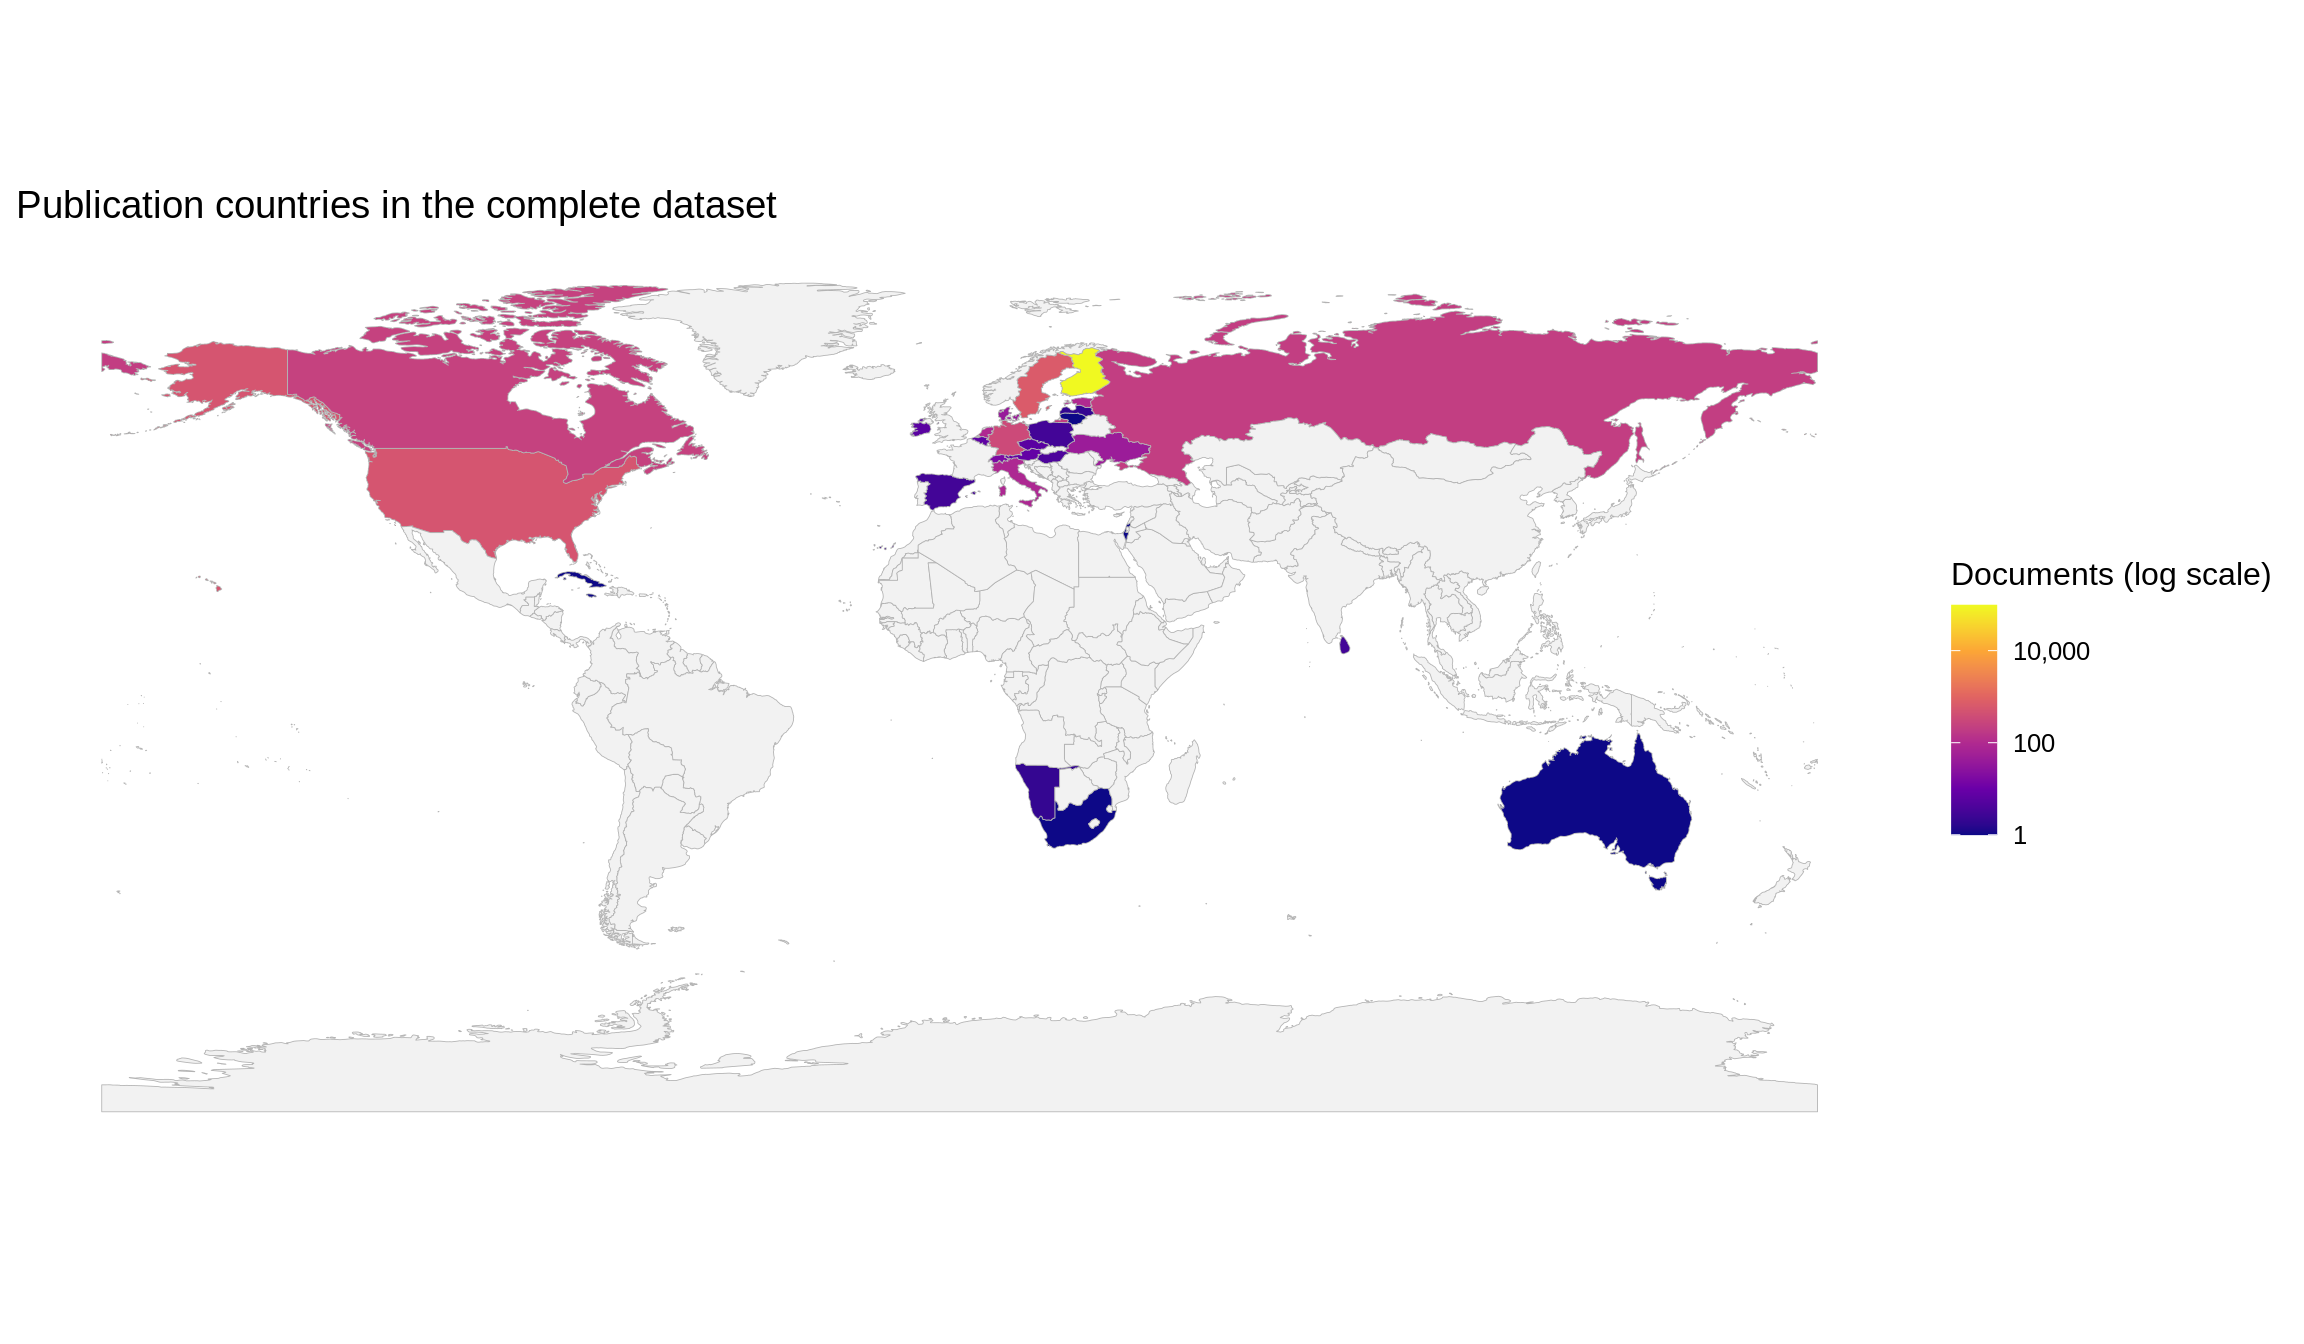
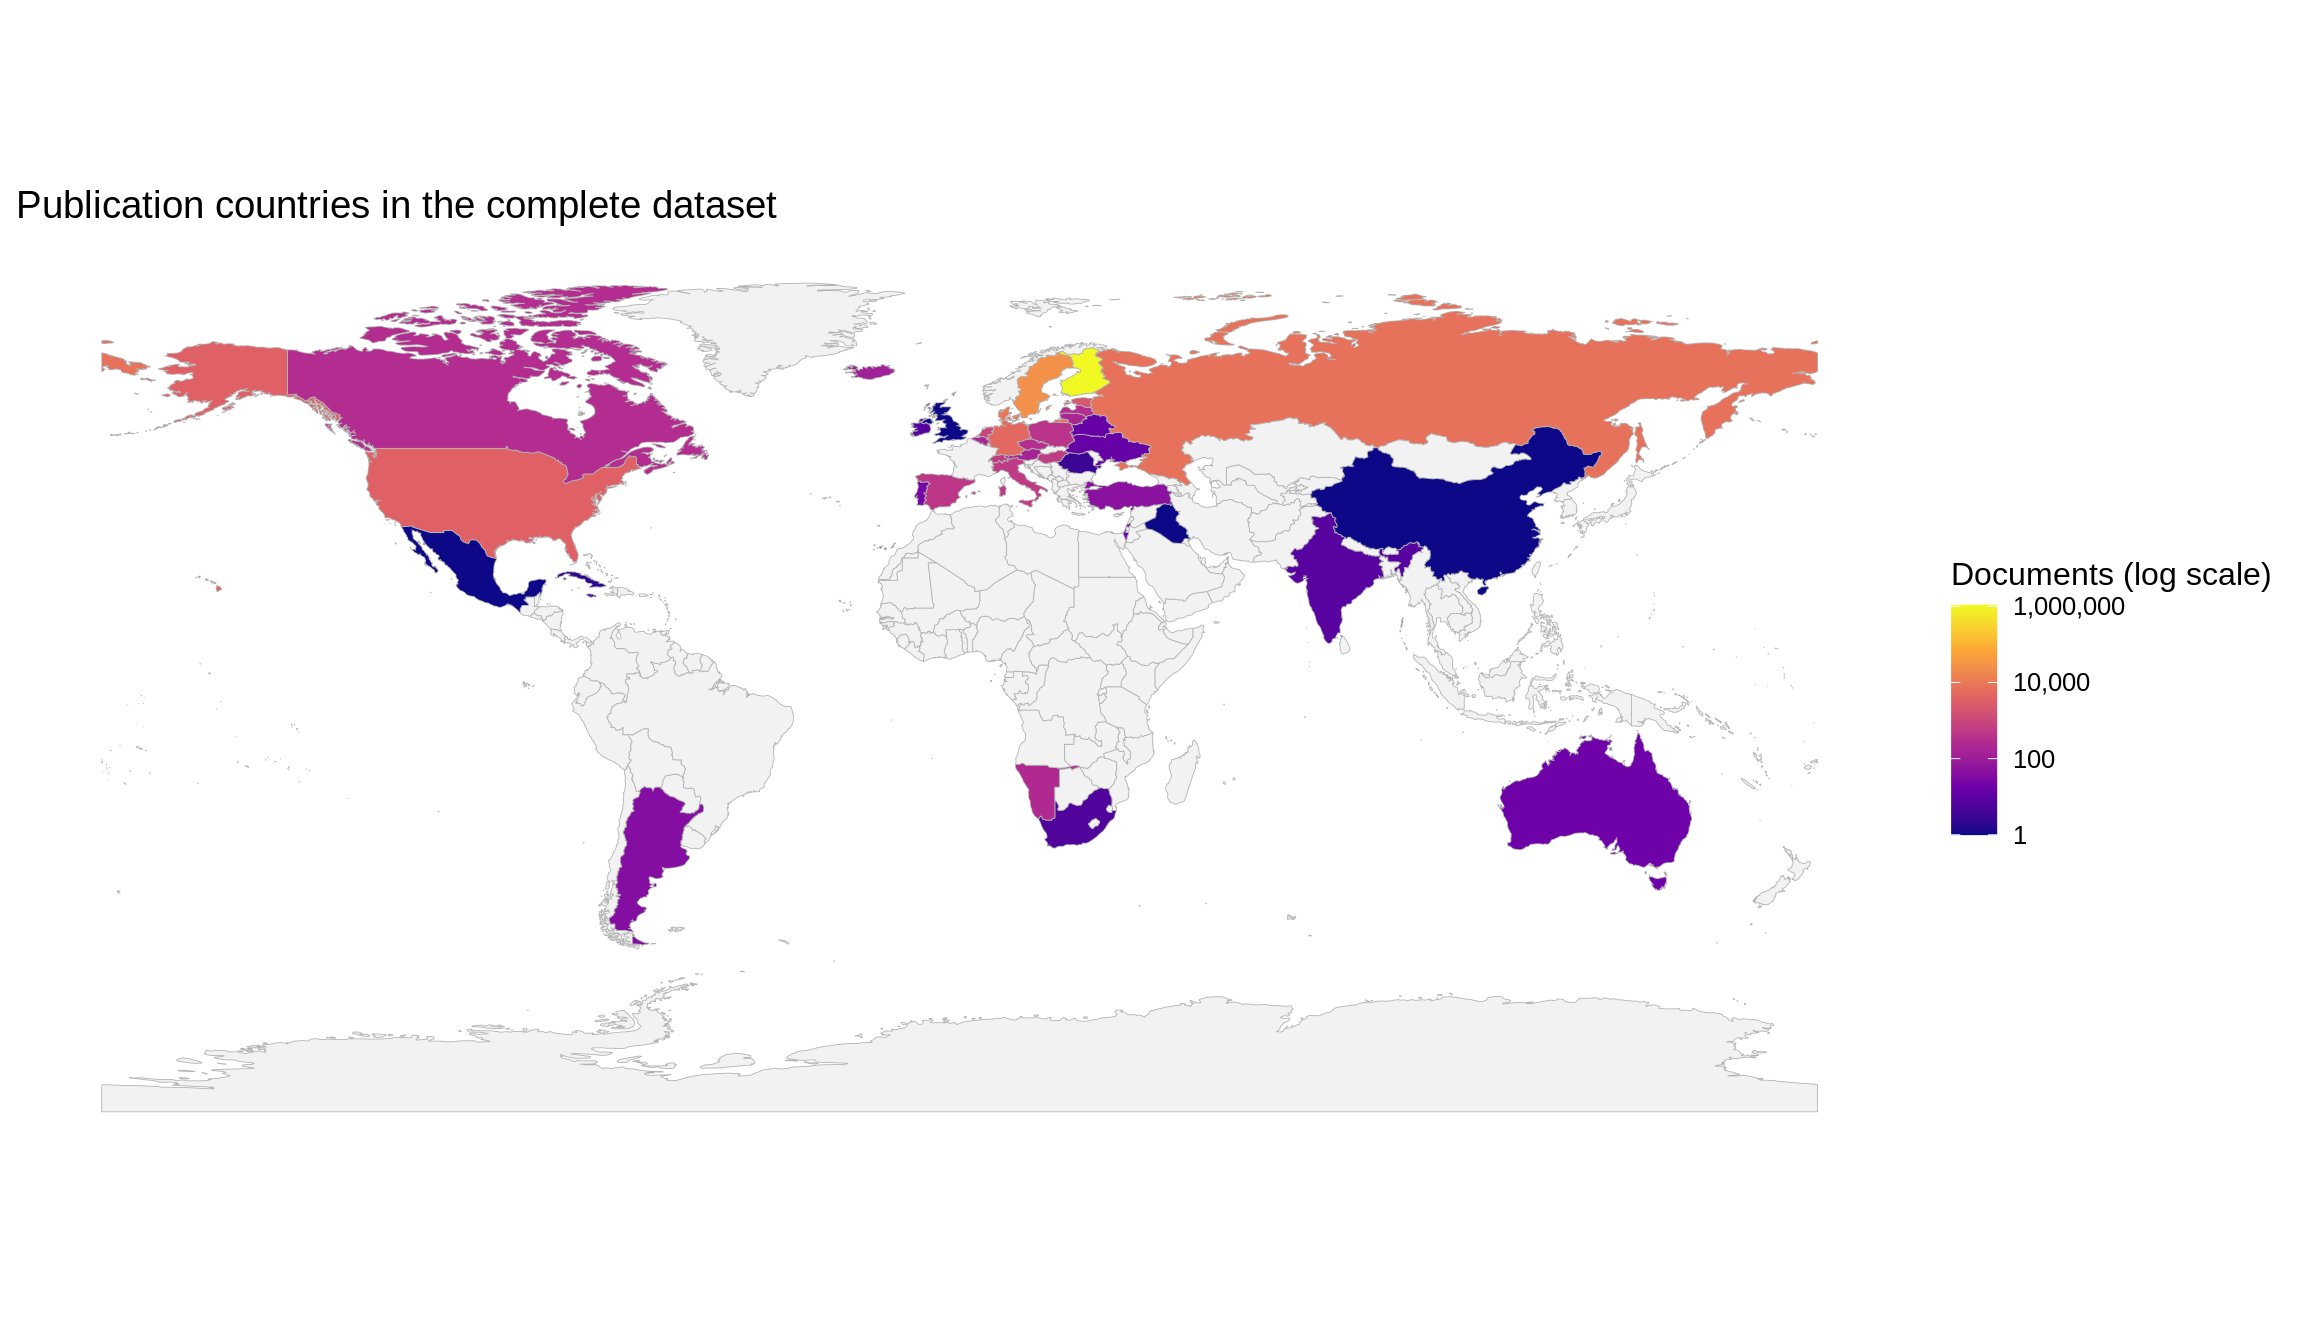
pub place upd

diff --git a/inst/examples/_book/publication_place.html b/inst/examples/_book/publication_place.html
@@ -200,20 +200,14 @@ ul.task-list li input[type="checkbox"] {
 </li>
         <li class="sidebar-item">
   <div class="sidebar-item-container"> 
-  <a href="./title_uniform.html" class="sidebar-item-text sidebar-link">
- <span class="menu-text"><span class="chapter-number">15</span>&nbsp; <span class="chapter-title">Uniform Titles and Variants</span></span></a>
-  </div>
-</li>
-        <li class="sidebar-item">
-  <div class="sidebar-item-container"> 
   <a href="./udk.html" class="sidebar-item-text sidebar-link">
- <span class="menu-text"><span class="chapter-number">16</span>&nbsp; <span class="chapter-title">Universal Decimal Classification</span></span></a>
+ <span class="menu-text"><span class="chapter-number">15</span>&nbsp; <span class="chapter-title">Universal Decimal Classification</span></span></a>
   </div>
 </li>
         <li class="sidebar-item">
   <div class="sidebar-item-container"> 
   <a href="./content_type.html" class="sidebar-item-text sidebar-link">
- <span class="menu-text"><span class="chapter-number">17</span>&nbsp; <span class="chapter-title">Types of record</span></span></a>
+ <span class="menu-text"><span class="chapter-number">16</span>&nbsp; <span class="chapter-title">Types of record</span></span></a>
   </div>
 </li>
         <li class="sidebar-item sidebar-item-section">
@@ -280,11 +274,11 @@ ul.task-list li input[type="checkbox"] {
 
 <p>MARC: <a href="https://www.loc.gov/marc/bibliographic/bd260.html">260a</a> and <a href="https://www.loc.gov/marc/bibliographic/bd264.html">264a</a></p>
 <p>Publication place information is primarily derived from MARC21 fields 260a and 264a, which record the location of publication. These fields exhibit substantial variation in spelling, language, and formatting, requiring systematic harmonization to enable consistent geographic analysis. The processing pipeline integrates normalization, synonym resolution, and external mappings to standardize place names and link them to countries and geocoordinates, while preserving traceability of ambiguous and discarded cases.</p>
-<p>The publication place field is enriched by using 264a when 260a is missing, after which the raw place strings are harmonized with polish_place(). The harmonized place names are then linked to countries with get_country() and joined with existing geocoding data to add longitude, latitude, and mapping identifiers. The workflow saves the processed table, creates accepted and discarded summaries, records discarded non-empty original values with IDs, and produces separate accepted summaries for the 1809–1917 subset. There are 1207088 records with missing author name information in the original raw data.</p>
+<p>The publication place field is enriched by using 264a when 260a is missing, after which the raw place strings are harmonized with polish_place(). The harmonized place names are then linked to countries with get_country() and joined with existing geocoding data to add longitude, latitude, and mapping identifiers. The workflow saves the processed table, creates accepted and discarded summaries, records discarded non-empty original values with IDs, and produces separate accepted summaries for the 1809–1917 subset. There are 360896 records with missing author name information in the original raw data.</p>
 <section id="complete-dataset-overview" class="level2" data-number="9.1">
 <h2 data-number="9.1" class="anchored" data-anchor-id="complete-dataset-overview"><span class="header-section-number">9.1</span> Complete Dataset Overview</h2>
 <ul>
-<li><p>114200 <a href="dataTable/data_table.html?path=https://a3s.fi/swift/v1/AUTH_3c0ccb602fa24298a6fe3ae224ca022f/fennica-container/output.tables/publication_place_accepted.csv">unique publication places</a>; available for 851136 documents (65%).</p></li>
+<li><p>5769 <a href="dataTable/data_table.html?path=https://a3s.fi/swift/v1/AUTH_3c0ccb602fa24298a6fe3ae224ca022f/fennica-container/output.tables/publication_place_accepted.csv">unique publication places</a>; available for 1224290 documents (93%).</p></li>
 <li><p><a href="dataTable/data_table.html?path=https://a3s.fi/swift/v1/AUTH_3c0ccb602fa24298a6fe3ae224ca022f/fennica-container/output.tables/publication_place_ambiguous.csv">Ambiguous publication places</a>;</p></li>
 <li><p><a href="dataTable/data_table.html?path=https://a3s.fi/swift/v1/AUTH_3c0ccb602fa24298a6fe3ae224ca022f/fennica-container/output.tables/publication_place_todo.csv">Unknown place names</a></p></li>
 </ul>
@@ -298,23 +292,23 @@ ul.task-list li input[type="checkbox"] {
 <section id="publication-countries" class="level2" data-number="9.2">
 <h2 data-number="9.2" class="anchored" data-anchor-id="publication-countries"><span class="header-section-number">9.2</span> Publication countries</h2>
 <ul>
-<li>37 <a href="dataTable/data_table.html?path=https://a3s.fi/swift/v1/AUTH_3c0ccb602fa24298a6fe3ae224ca022f/fennica-container/output.tables/publication_country_accepted.csv">unique publication countries</a>; available for 100771 documents (8%).</li>
-<li>113802 <a href="dataTable/data_table.html?path=https://a3s.fi/swift/v1/AUTH_3c0ccb602fa24298a6fe3ae224ca022f/fennica-container/output.tables/publication_place_missingcountry.csv">places with unknown publication country</a> (99.7% of the unique places; can be added to <a href="dataTable/data_table.html?path=https://a3s.fi/swift/v1/AUTH_3c0ccb602fa24298a6fe3ae224ca022f/fennica-container/output.tables/reg2country.csv">country mappings</a>)</li>
+<li>46 <a href="dataTable/data_table.html?path=https://a3s.fi/swift/v1/AUTH_3c0ccb602fa24298a6fe3ae224ca022f/fennica-container/output.tables/publication_country_accepted.csv">unique publication countries</a>; available for 1139851 documents (86%).</li>
+<li>5032 <a href="dataTable/data_table.html?path=https://a3s.fi/swift/v1/AUTH_3c0ccb602fa24298a6fe3ae224ca022f/fennica-container/output.tables/publication_place_missingcountry.csv">places with unknown publication country</a> (87.2% of the unique places; can be added to <a href="dataTable/data_table.html?path=https://a3s.fi/swift/v1/AUTH_3c0ccb602fa24298a6fe3ae224ca022f/fennica-container/output.tables/reg2country.csv">country mappings</a>)</li>
 <li><a href="dataTable/data_table.html?path=https://a3s.fi/swift/v1/AUTH_3c0ccb602fa24298a6fe3ae224ca022f/fennica-container/output.tables/publication_country_ambiguous.csv">potentially ambiguous region-country mappings</a> (these may occur in the data in various synonymes and the country is not always clear when multiple countries have a similar place name; the default country is listed first). NOTE: possible improvements should not be done in this output summary but instead in the <a href="dataTable/data_table.html?path=https://a3s.fi/swift/v1/AUTH_3c0ccb602fa24298a6fe3ae224ca022f/fennica-container/output.tables/reg2country.csv">country mapping file</a>.</li>
 </ul>
 </section>
 <section id="geocoordinates" class="level2" data-number="9.3">
 <h2 data-number="9.3" class="anchored" data-anchor-id="geocoordinates"><span class="header-section-number">9.3</span> Geocoordinates</h2>
 <ul>
-<li>7.6% of the documents were matched to geographic coordinates (based on COMHIS geomapping process).</li>
-<li>113836 unique places (99.7% of all unique places and 92.4% of all documents) are missing geocoordinates. See <a href="dataTable/data_table.html?path=https://a3s.fi/swift/v1/AUTH_3c0ccb602fa24298a6fe3ae224ca022f/fennica-container/output.tables/absentgeocoordinates.csv">list of places missing geocoordinate information</a>.</li>
+<li>86.2% of the documents were matched to geographic coordinates (based on COMHIS geomapping process).</li>
+<li>5095 unique places (88.3% of all unique places and 13.84% of all documents) are missing geocoordinates. See <a href="dataTable/data_table.html?path=https://a3s.fi/swift/v1/AUTH_3c0ccb602fa24298a6fe3ae224ca022f/fennica-container/output.tables/absentgeocoordinates.csv">list of places missing geocoordinate information</a>.</li>
 </ul>
 </section>
 <section id="subset-analysis-1809-1917" class="level2" data-number="9.4">
 <h2 data-number="9.4" class="anchored" data-anchor-id="subset-analysis-1809-1917"><span class="header-section-number">9.4</span> Subset Analysis: 1809-1917</h2>
 <ul>
-<li><p>7564 <a href="dataTable/data_table.html?path=https://a3s.fi/swift/v1/AUTH_3c0ccb602fa24298a6fe3ae224ca022f/fennica-container/output.tables/publication_place_accepted_19.csv">unique publication places</a>; available for 45392 documents (63%).</p></li>
-<li><p>Unique publication country for a period 1809-1917: 13; available for 3102 documents (4%).</p></li>
+<li><p>527 <a href="dataTable/data_table.html?path=https://a3s.fi/swift/v1/AUTH_3c0ccb602fa24298a6fe3ae224ca022f/fennica-container/output.tables/publication_place_accepted_19.csv">unique publication places</a>; available for 70482 documents (97%).</p></li>
+<li><p>Unique publication country for a period 1809-1917: 32; available for 68732 documents (95%).</p></li>
 </ul>
 <p>Top-20 publication places are shown together with the number of documents.</p>
 <div class="cell">
@@ -344,33 +338,33 @@ ul.task-list li input[type="checkbox"] {
 <tbody>
 <tr class="odd">
 <td style="text-align: left;">Finland</td>
-<td style="text-align: right;">2917</td>
-<td style="text-align: right;">4.0</td>
+<td style="text-align: right;">63094</td>
+<td style="text-align: right;">86.9</td>
 </tr>
 <tr class="even">
-<td style="text-align: left;">USA</td>
-<td style="text-align: right;">89</td>
-<td style="text-align: right;">0.1</td>
-</tr>
-<tr class="odd">
 <td style="text-align: left;">Sweden</td>
-<td style="text-align: right;">24</td>
-<td style="text-align: right;">0.0</td>
-</tr>
-<tr class="even">
-<td style="text-align: left;">Germany</td>
-<td style="text-align: right;">18</td>
-<td style="text-align: right;">0.0</td>
+<td style="text-align: right;">1768</td>
+<td style="text-align: right;">2.4</td>
 </tr>
 <tr class="odd">
 <td style="text-align: left;">Russia</td>
-<td style="text-align: right;">15</td>
-<td style="text-align: right;">0.0</td>
+<td style="text-align: right;">1220</td>
+<td style="text-align: right;">1.7</td>
 </tr>
 <tr class="even">
-<td style="text-align: left;">Canada</td>
-<td style="text-align: right;">14</td>
-<td style="text-align: right;">0.0</td>
+<td style="text-align: left;">USA</td>
+<td style="text-align: right;">1110</td>
+<td style="text-align: right;">1.5</td>
+</tr>
+<tr class="odd">
+<td style="text-align: left;">Germany</td>
+<td style="text-align: right;">633</td>
+<td style="text-align: right;">0.9</td>
+</tr>
+<tr class="even">
+<td style="text-align: left;">France</td>
+<td style="text-align: right;">181</td>
+<td style="text-align: right;">0.2</td>
 </tr>
 </tbody>
 </table>
